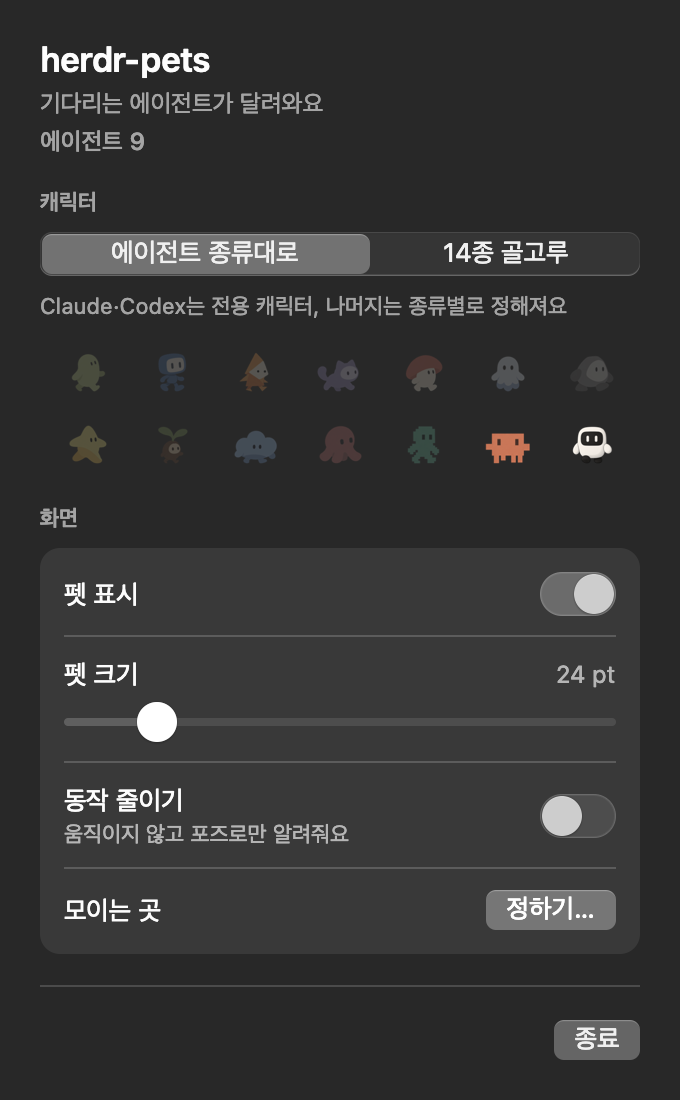
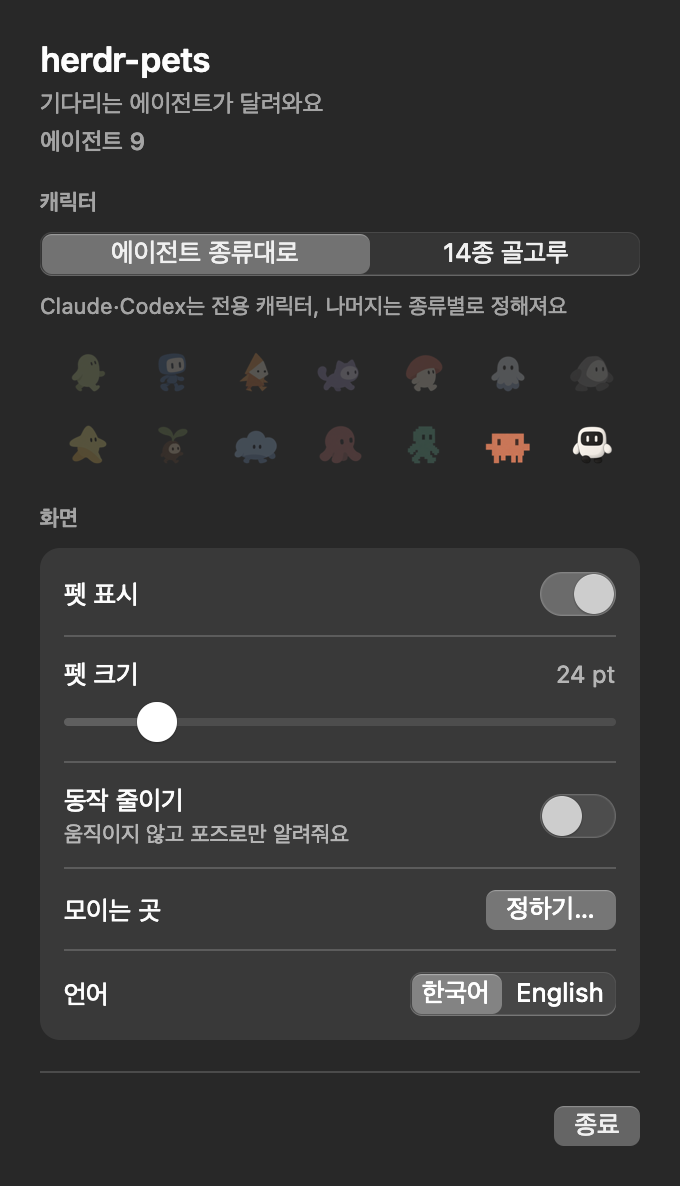
feat: add language setting (ko, en)

diff --git a/src/Controls.swift b/src/Controls.swift
@@ -8,6 +8,7 @@ final class Controls: NSObject {
     private let statusLabel = label("", size: 12, weight: .medium)
     private let characterNote = label("", size: 11, secondary: true)
     private let sizeLabel = label("", size: 12, secondary: true)
+    private var connected = true
 
     func install() {
         let icon = NSImage(contentsOf: projectRoot.appendingPathComponent("assets/menubar-icon.png"))
@@ -18,15 +19,20 @@ final class Controls: NSObject {
         item.button?.imagePosition = .imageLeading
         item.button?.target = self
         item.button?.action = #selector(toggle)
+        popover.behavior = .transient
+        build()
+    }
 
-        let characters = NSSegmentedControl(labels: ["에이전트 종류대로", "14종 골고루"], trackingMode: .selectOne,
+    // Builds the panel. Called again when the language changes.
+    private func build() {
+        let characters = NSSegmentedControl(labels: [t("에이전트 종류대로", "By agent type"), t("14종 골고루", "All 14")], trackingMode: .selectOne,
                                             target: self, action: #selector(changeCharacters(_:)))
         characters.selectedSegment = preferences.allCharacters ? 1 : 0
-        let quit = NSButton(title: "종료", target: NSApp, action: #selector(NSApplication.terminate(_:)))
+        let quit = NSButton(title: t("종료", "Quit"), target: NSApp, action: #selector(NSApplication.terminate(_:)))
         let content = stack([
-            stack([label("herdr-pets", size: 17, weight: .semibold), label("기다리는 에이전트가 달려와요", size: 12, secondary: true), statusLabel], spacing: 4),
-            section("캐릭터", [characters, characterNote, gallery]),
-            section("화면", [displayCard()]),
+            stack([label("herdr-pets", size: 17, weight: .semibold), label(t("기다리는 에이전트가 달려와요", "Blocked agents' pets come to you"), size: 12, secondary: true), statusLabel], spacing: 4),
+            section(t("캐릭터", "Characters"), [characters, characterNote, gallery]),
+            section(t("화면", "Display"), [displayCard()]),
             separator(),
             row(NSView(), quit),
         ], spacing: 16)
@@ -38,9 +44,8 @@ final class Controls: NSObject {
         popover.contentViewController = NSViewController()
         popover.contentViewController!.view = material
         popover.contentSize = material.fittingSize
-        popover.behavior = .transient
         refreshGallery()
-        refresh(connected: true)
+        refresh(connected: connected)
     }
 
     private func displayCard() -> NSView {
@@ -52,15 +57,19 @@ final class Controls: NSObject {
         still.target = self; still.action = #selector(changeMotion(_:))
         let size = NSSlider(value: preferences.size, minValue: Preferences.sizeRange.lowerBound, maxValue: Preferences.sizeRange.upperBound, target: self, action: #selector(changeSize(_:)))
         sizeLabel.stringValue = "\(Int(preferences.size)) pt"
+        let language = NSSegmentedControl(labels: ["한국어", "English"], trackingMode: .selectOne, target: self, action: #selector(changeLanguage(_:)))
+        language.selectedSegment = preferences.language == "ko" ? 0 : 1
 
         let rows = stack([
-            row(label("펫 표시", size: 13), visible),
+            row(label(t("펫 표시", "Show pets"), size: 13), visible),
             separator(),
-            stack([row(label("펫 크기", size: 13), sizeLabel), size], spacing: 6),
+            stack([row(label(t("펫 크기", "Pet size"), size: 13), sizeLabel), size], spacing: 6),
             separator(),
-            row(stack([label("동작 줄이기", size: 13), label("움직이지 않고 포즈로만 알려줘요", size: 11, secondary: true)], spacing: 2), still),
+            row(stack([label(t("동작 줄이기", "Reduce motion"), size: 13), label(t("움직이지 않고 포즈로만 알려줘요", "Shows status with poses only"), size: 11, secondary: true)], spacing: 2), still),
             separator(),
-            row(label("모이는 곳", size: 13), NSButton(title: "정하기…", target: self, action: #selector(editArea))),
+            row(label(t("모이는 곳", "Home area"), size: 13), NSButton(title: t("정하기…", "Set…"), target: self, action: #selector(editArea))),
+            separator(),
+            row(label(t("언어", "Language"), size: 13), language),
         ], spacing: 10)
         let card = NSView()
         card.wantsLayer = true
@@ -77,14 +86,15 @@ final class Controls: NSObject {
     }
 
     func refresh(connected: Bool) {
+        self.connected = connected
         let count = scene.agents.count
         let waiting = scene.agents.filter { $0.agent_status == "blocked" }.count
-        var text = demo ? "미리보기 · 펫 \(count)마리"
-            : !connected ? "Herdr 연결을 기다리는 중"
-            : count == 0 ? "실행 중인 에이전트가 없어요"
-            : waiting > 0 ? "에이전트 \(count) · \(waiting)개 기다리는 중"
-            : "에이전트 \(count)"
-        if count > scene.pets.count { text += " · \(count - scene.pets.count)개는 숨김" }   // Pets over the display limit
+        var text = demo ? t("미리보기 · 펫 \(count)마리", "Preview · \(count) pets")
+            : !connected ? t("Herdr 연결을 기다리는 중", "Waiting for Herdr")
+            : count == 0 ? t("실행 중인 에이전트가 없어요", "No agents running")
+            : waiting > 0 ? t("에이전트 \(count) · \(waiting)개 기다리는 중", "Agents \(count) · \(waiting) blocked")
+            : t("에이전트 \(count)", "Agents \(count)")
+        if count > scene.pets.count { text += t(" · \(count - scene.pets.count)개는 숨김", " · \(count - scene.pets.count) hidden") }   // Pets over the display limit
         statusLabel.stringValue = text
         statusLabel.textColor = waiting > 0 ? .systemOrange : .secondaryLabelColor
         item.button?.toolTip = text
@@ -93,8 +103,8 @@ final class Controls: NSObject {
 
     private func refreshGallery() {
         characterNote.stringValue = preferences.allCharacters
-            ? "에이전트마다 14종 중 하나가 정해져요"
-            : "Claude·Codex는 전용 캐릭터, 나머지는 종류별로 정해져요"
+            ? t("에이전트마다 14종 중 하나가 정해져요", "Each agent gets one of the 14")
+            : t("Claude·Codex는 전용 캐릭터, 나머지는 종류별로 정해져요", "Claude and Codex have their own; others by type")
         var possible: Set<PetKind> = preferences.allCharacters ? Set(PetKind.allCases) : [.claude, .codex]
         if !preferences.allCharacters { scene.agents.forEach { possible.insert(petKind(ofType: $0.agent)) } }
         gallery.arrangedSubviews.forEach { $0.removeFromSuperview() }
@@ -106,7 +116,7 @@ final class Controls: NSObject {
                 image.widthAnchor.constraint(equalToConstant: 32).isActive = true
                 image.heightAnchor.constraint(equalToConstant: 32).isActive = true
                 image.alphaValue = possible.contains(kind) ? 1 : 0.22
-                image.toolTip = possible.contains(kind) ? kind.title : "\(kind.title) · 지금 설정에서는 나오지 않아요"
+                image.toolTip = possible.contains(kind) ? kind.title : t("\(kind.title) · 지금 설정에서는 나오지 않아요", "\(kind.title) · Not used with this setting")
                 return image
             }
             let row = NSStackView(views: images)
@@ -142,6 +152,12 @@ final class Controls: NSObject {
         preferences.save()
         sizeLabel.stringValue = "\(Int(preferences.size)) pt"
         scene.wake()
+    }
+
+    @objc private func changeLanguage(_ sender: NSSegmentedControl) {
+        preferences.language = sender.selectedSegment == 0 ? "ko" : "en"
+        preferences.save()
+        build()
     }
 
     @objc private func editArea() {

diff --git a/src/Sprites.swift b/src/Sprites.swift
@@ -15,18 +15,18 @@ enum PetKind: String, CaseIterable {
 
     var title: String {
         switch self {
-        case .blob: return "말랑이"
-        case .robot: return "로봇"
-        case .paper: return "종이 정령"
-        case .cat: return "고양이"
-        case .mushroom: return "버섯 요정"
-        case .ghost: return "유령"
-        case .stone: return "골렘"
-        case .star: return "별"
-        case .seed: return "씨앗"
-        case .cloud: return "구름"
-        case .octopus: return "문어"
-        case .pixel: return "픽셀 친구"
+        case .blob: return t("말랑이", "Blob")
+        case .robot: return t("로봇", "Robot")
+        case .paper: return t("종이 정령", "Paper Sprite")
+        case .cat: return t("고양이", "Cat")
+        case .mushroom: return t("버섯 요정", "Mushroom Fairy")
+        case .ghost: return t("유령", "Ghost")
+        case .stone: return t("골렘", "Golem")
+        case .star: return t("별", "Star")
+        case .seed: return t("씨앗", "Seed")
+        case .cloud: return t("구름", "Cloud")
+        case .octopus: return t("문어", "Octopus")
+        case .pixel: return t("픽셀 친구", "Pixel Buddy")
         case .claude: return "Claude"
         case .codex: return "Codex"
         }

diff --git a/src/Preferences.swift b/src/Preferences.swift
@@ -6,6 +6,7 @@ struct Preferences: Codable {
     var reducedMotion = false
     var allCharacters = false          // false: character by agent kind, true: one of 14 per agent
     var area: CGRect? = nil            // Crowd area (screen coordinates). nil: default area
+    var language = Locale.preferredLanguages.first?.hasPrefix("ko") == true ? "ko" : "en"   // "ko" or "en". Defaults to the system language
 
     static let sizeRange = 16.0...72.0
 
@@ -23,6 +24,7 @@ struct Preferences: Codable {
         reducedMotion = try c.decodeIfPresent(Bool.self, forKey: .reducedMotion) ?? reducedMotion
         allCharacters = try c.decodeIfPresent(Bool.self, forKey: .allCharacters) ?? allCharacters
         area = try c.decodeIfPresent(CGRect.self, forKey: .area)
+        language = try c.decodeIfPresent(String.self, forKey: .language) ?? language
     }
 
     static func read() -> Preferences {
@@ -37,5 +39,8 @@ struct Preferences: Codable {
 }
 
 var preferences = Preferences.read()
+
+// UI text in the chosen language.
+func t(_ ko: String, _ en: String) -> String { preferences.language == "ko" ? ko : en }
 var petScale: CGFloat { CGFloat(preferences.size) / baseSize }
 var motionReduced: Bool { preferences.reducedMotion || NSWorkspace.shared.accessibilityDisplayShouldReduceMotion }

diff --git a/src/Overlay.swift b/src/Overlay.swift
@@ -43,7 +43,7 @@ final class AreaEditor: NSObject, NSWindowDelegate {
     func show() {
         if let window { window.makeKeyAndOrderFront(nil); return }
         let w = NSWindow(contentRect: area, styleMask: [.titled, .closable, .resizable], backing: .buffered, defer: false)
-        w.title = "친구들이 머무를 곳"
+        w.title = t("친구들이 머무를 곳", "Home area")
         w.isReleasedWhenClosed = false
         w.isOpaque = false
         w.backgroundColor = NSColor.controlAccentColor.withAlphaComponent(0.08)

diff --git a/README.md b/README.md
@@ -44,19 +44,20 @@ Pets never block clicks or take focus, and herdr-pets reads only agent status fr
 ## Settings
 
 Click the menu bar icon to open the settings panel. The top shows the number of agents and
-blocked agents. The labels are in Korean.
+blocked agents.
 
-<img src="assets/readme/settings.png" alt="herdr-pets settings panel" width="340">
+<img src="assets/readme/settings-en.png" alt="herdr-pets settings panel" width="340">
 
 | Setting | Description |
 | --- | --- |
-| **에이전트 종류대로** (By agent type) | Claude and Codex get their own characters; other agents get a fixed character per agent type |
-| **14종 골고루** (All 14 characters) | Each agent gets one of all 14 characters |
-| **펫 표시** (Show pets) | Show or hide the pets |
-| **펫 크기** (Pet size) | 16–72 pt. The **!** and **✓** keep their size |
-| **동작 줄이기** (Reduce motion) | Pets show status with poses only, without moving. The macOS Reduce Motion setting also applies |
-| **모이는 곳 → 정하기…** (Set home area) | Move and resize the translucent window, then close it to save |
-| **종료** (Quit) | Quit the app |
+| **By agent type** | Claude and Codex get their own characters; other agents get a fixed character per agent type |
+| **All 14** | Each agent gets one of all 14 characters |
+| **Show pets** | Show or hide the pets |
+| **Pet size** | 16–72 pt. The **!** and **✓** keep their size |
+| **Reduce motion** | Pets show status with poses only, without moving. The macOS Reduce Motion setting also applies |
+| **Home area → Set…** | Move and resize the translucent window, then close it to save |
+| **Language** | 한국어 or English. Follows the macOS language at first |
+| **Quit** | Quit the app |
 
 Settings are saved in the plugin config folder. To find it:
 

diff --git a/README.ko.md b/README.ko.md
@@ -56,6 +56,7 @@ Herdr 서버를 다시 시작할 때도 앱이 자동으로 실행됩니다.
 | **펫 크기** | 16–72 pt 사이에서 조절합니다. **!** 와 **✓** 크기는 바뀌지 않습니다 |
 | **동작 줄이기** | 펫이 움직이지 않고 포즈로만 상태를 알려 줍니다. macOS의 동작 줄이기 설정도 따릅니다 |
 | **모이는 곳 → 정하기…** | 반투명 창을 원하는 위치로 옮기고 크기를 조절한 뒤, 창을 닫아 저장하세요 |
+| **언어** | 한국어나 English를 고릅니다. 처음에는 macOS 언어를 따릅니다 |
 | **종료** | 앱을 종료합니다 |
 
 설정은 플러그인 설정 폴더에 저장됩니다. 위치는 아래 명령으로 확인할 수 있습니다.
